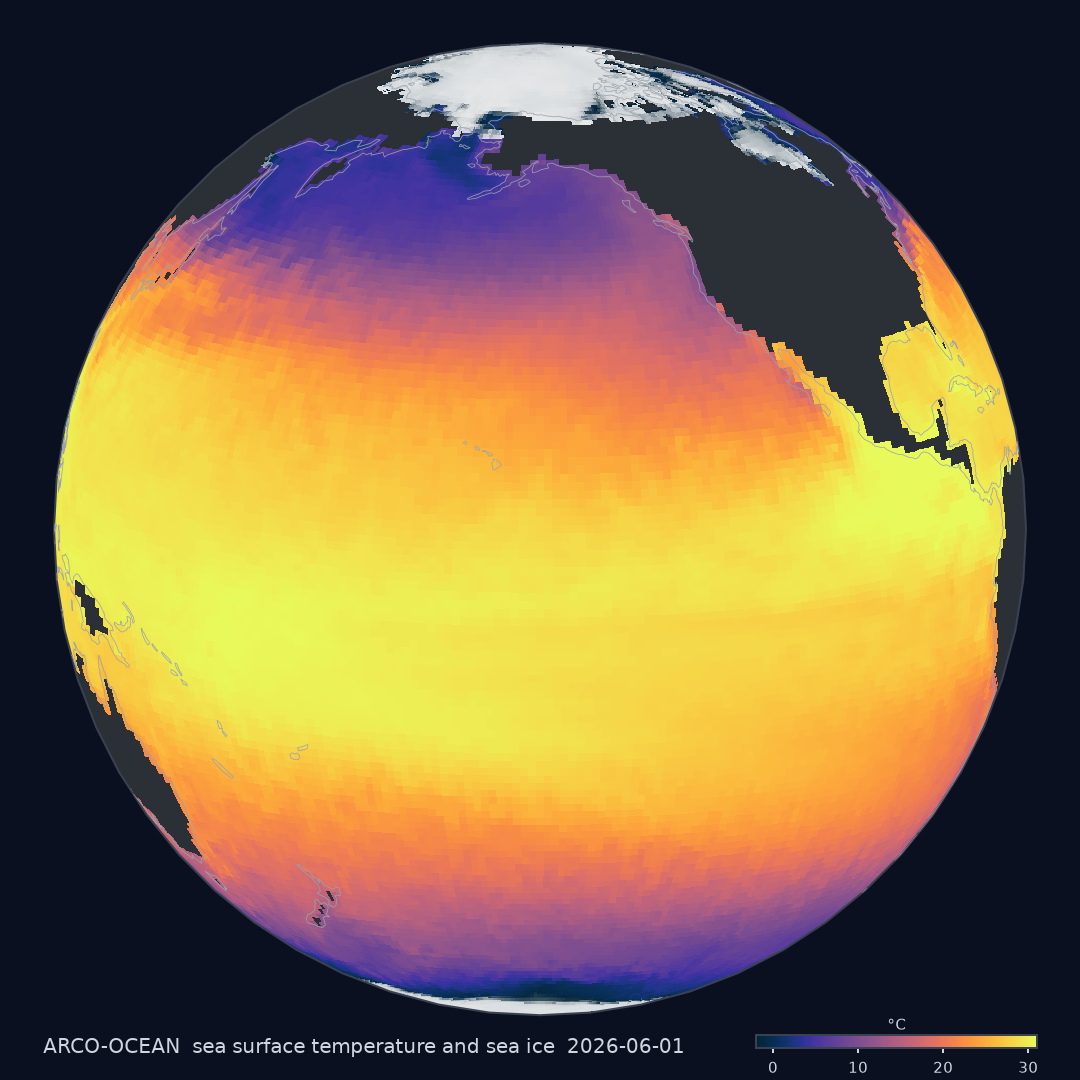
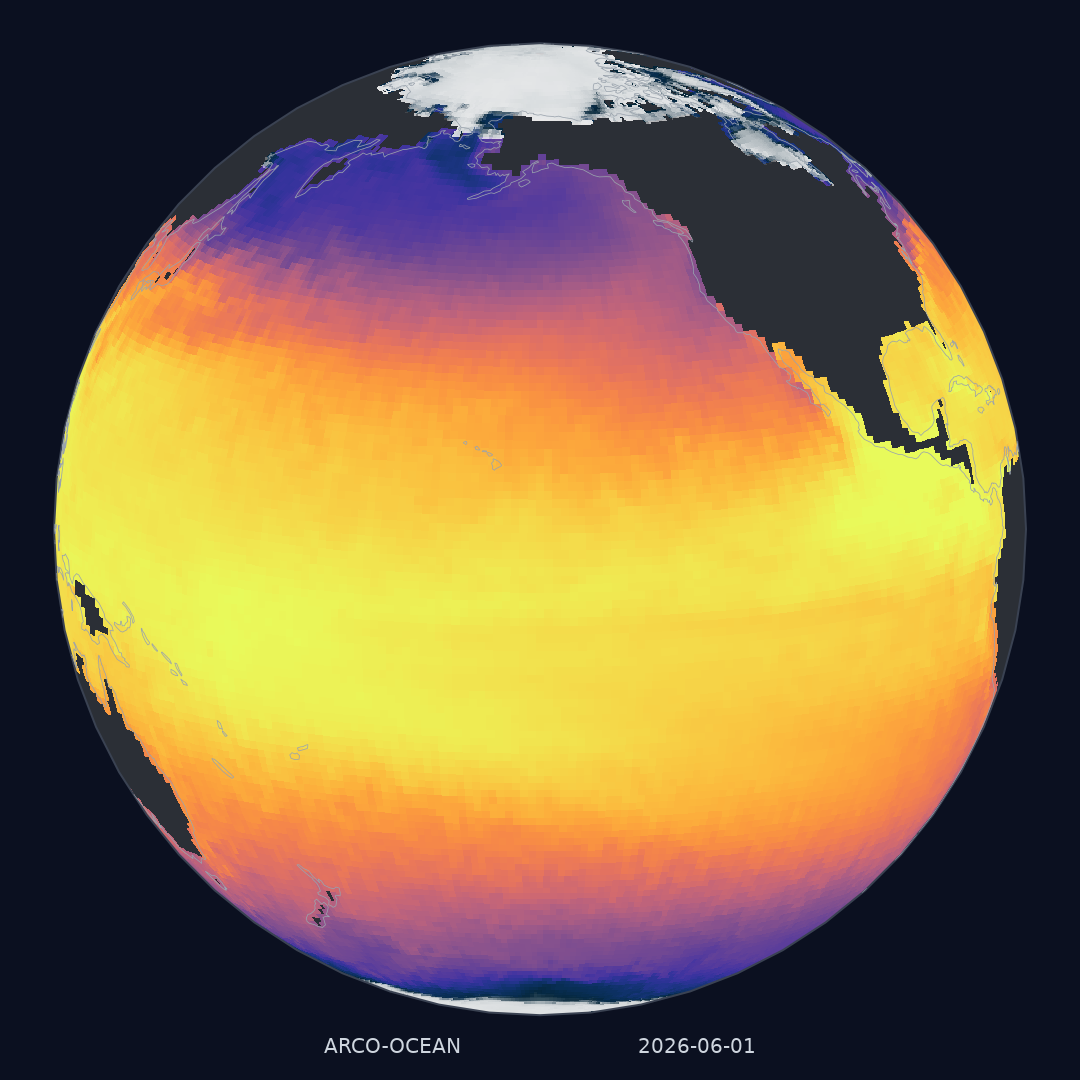
docs: the animation's content and text, as the maintainer chose
Sea surface temperature with sea ice in 2023, as proposed; the title and a
running date near the centre of the bottom edge, no colour bar. The prototype
frame is drawn again without it.

Claude-Session: https://claude.ai/code/session_01RYLZMVbiFJeUwXgPf6ebav

Changed region(s): [[0.0306, 0.9472, 0.9778, 1.0]]

diff --git a/docs/animation_frame.py b/docs/animation_frame.py
@@ -26,7 +26,7 @@ fig = plt.figure(figsize=(6, 6), dpi=180, facecolor=background)
 ax = fig.add_axes((0.02, 0.06, 0.96, 0.9), projection=ccrs.Orthographic(lon0, 12))
 ax.set_facecolor(background)
 ax.add_feature(cfeature.LAND, facecolor="#2b2f36", zorder=0)
-mesh = ax.pcolormesh(
+ax.pcolormesh(
   sst.lon,
   sst.lat,
   sst,
@@ -52,19 +52,9 @@ ax.imshow(
 ax.coastlines(linewidth=0.3, color="#9aa3ad", zorder=3)
 ax.spines["geo"].set_edgecolor("#3a4252")
 date = np.datetime_as_string(day.time.values, unit="D")
-fig.text(
-  0.04,
-  0.025,
-  f"ARCO-OCEAN  sea surface temperature and sea ice  {date}",
-  color="#cfd6df",
-  fontsize=8,
-  family="DejaVu Sans",
-)
-cax = fig.add_axes((0.70, 0.03, 0.26, 0.012))
-bar = fig.colorbar(mesh, cax=cax, orientation="horizontal")
-bar.set_ticks([0, 10, 20, 30])
-bar.ax.tick_params(labelsize=6, colors="#cfd6df", length=2)
-bar.outline.set_edgecolor("#3a4252")
-bar.ax.set_title("°C", color="#cfd6df", fontsize=6, pad=2)
+# Title and date only, small and near the centre of the bottom edge, so a cropped thumbnail keeps
+# them (maintainer, 23 Nov: no colour bar).
+for x, text, align in ((0.30, "ARCO-OCEAN", "left"), (0.70, date, "right")):
+  fig.text(x, 0.025, text, color="#cfd6df", fontsize=8, family="DejaVu Sans", ha=align)
 fig.savefig(sys.argv[2], facecolor=background)
 print("wrote", sys.argv[2], sst.shape)

diff --git a/docs/animation-design.md b/docs/animation-design.md
@@ -1,7 +1,7 @@
-# An animation of ARCO-OCEAN (design proposal)
+# An animation of ARCO-OCEAN (design)
 
 Roadmap item 5: an animation for the Earthmover marketplace listing and the documentation. This
-is a proposal for the maintainer to review before any production rendering.
+was a proposal; the maintainer chose its content and text on 23 Nov (Decisions, below).
 
 ![Prototype frame](animation-prototype-frame.png)
 
@@ -18,7 +18,7 @@ season:
 - the Gulf Stream and the Kuroshio;
 - the Arctic ice melting back in summer, and the Antarctic ice growing in austral winter.
 
-**The year.** Proposed: 2023, El Niño's onset, when the eastern Pacific warms over the months.
+**The year.** 2023, El Niño's onset, when the eastern Pacific warms over the months.
 It is within the historical dataset and well known; any year works.
 
 ## Why this design
@@ -34,7 +34,7 @@ It is within the historical dataset and well known; any year works.
 - **A loop for the marketplace.** 12 s at 30 frames per second is 360 frames, one per day, and
   one turn of the globe. It loops without a jump in rotation, though one in season.
 
-## Alternatives (pick one, or keep the proposal)
+## Alternatives considered
 
 1. **Surface currents.** Speed from `uo`/`vo` (cmocean `speed`, on black), with particles
    advected along the currents. The most striking option, but rendering particles needs more
@@ -63,11 +63,13 @@ It is within the historical dataset and well known; any year works.
 - **Effort.** About a day for the script and a first video, once the 0.25° historical repository
   is published. The frames take minutes on the project VM.
 
+## Decisions (maintainer, 23 Nov)
+
+1. **Variable and year:** sea surface temperature with sea ice, in 2023, as proposed.
+2. **Text:** the title and a running date, small, near the centre of the bottom edge, so that a
+   thumbnail cropped to the centre keeps them; no colour bar, as in the prototype frame.
+
 ## Open points
 
-1. **Variable and year:** sea surface temperature with sea ice in 2023 (proposed), or currents
-   or anomalies (alternatives above)?
-2. **Text:** a title only (proposed), or also a date counter and a colour bar, as in the
-   prototype? Earthmover's thumbnails may crop the frame.
-3. **Branding:** Earthmover's marketplace may have size and length requirements, to check when
+1. **Branding:** Earthmover's marketplace may have size and length requirements, to check when
    listing (roadmap item 10).
